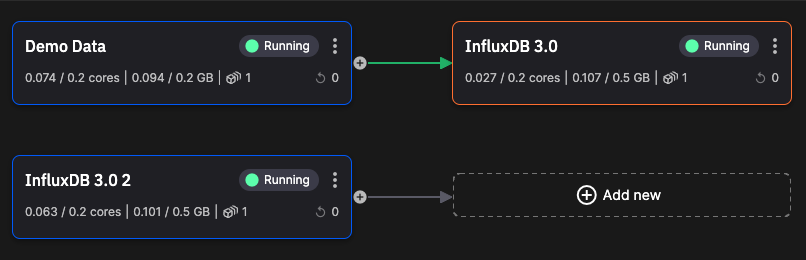
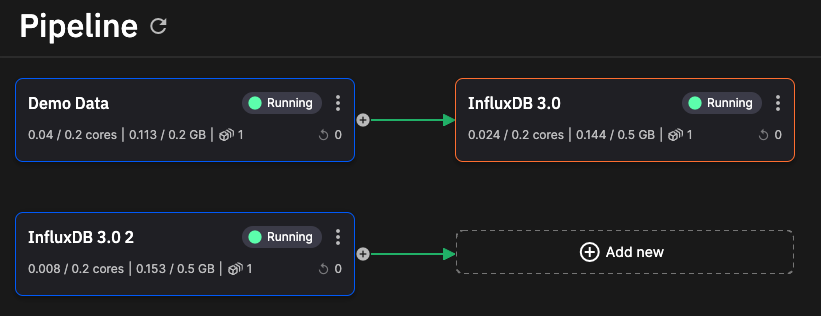
[chore] - add material

diff --git a/docs/integrations/influxdb/quickstart.md b/docs/integrations/influxdb/quickstart.md
@@ -2,11 +2,11 @@
 
 This quickstart shows you how to integrate Quix with InfluxDB using our standard [connectors](../../connectors/index.md).
 
-In the first part of this quickstart, you'll write data from a Quix topic to InfluxDB, and in the second part you'll publish data from InfluxDB into a Quix topic.
+In the first part of this quickstart, you'll publish data generated by a sample source from a Quix topic to InfluxDB, and in the second part you'll publish data from InfluxDB into a Quix topic, and then explore that data in real time.
 
 ## Prerequisites
 
-You complete this quickstart you will need:
+To complete this quickstart you will need:
 
 * A free [Quix account](https://portal.platform.quix.ai/self-sign-up){target="_blank"}.
 * An [InfluxDB account](https://www.influxdata.com/products/influxdb-cloud/serverless/){target=_blank}
@@ -25,9 +25,17 @@ In the InfluxDB token manager, generate an API token for this project. All "all 
 
 To create a sample data source so you have some data to store in InfluxDB:
 
-1. In the pipeline view of your environment, click `+ Sample data source` and then click `Deploy` and `Deploy` again to add the sample data source into your pipeline.
+1. In the pipeline view of your environment, click `+ Sample data source`. 
+
+2. Click `Deploy` and `Deploy` again to add the sample data source into your pipeline.
+
+Alternatively, click `Add new` (top right corner in pipeline view), select `Source`, and then select `Demo Data`. You can then deploy this sample.
+
+By default, the output topic from this sample is `f1-data`.
 
 ## Add your InfluxDB destination
+
+You now add an InfluxDB **destination** to enable you to publish data from a Quix topic to InfluxDB.
 
 1. Switch to the pipeline view and click `+ Add new` and select `Destination` - you are now going to add an InfluxDB destination.
 
@@ -41,15 +49,25 @@ To create a sample data source so you have some data to store in InfluxDB:
 
     !!! tip
 
-        `INFLUXDB_DATABASE` is the bucket you created previously, `f1-data` - this is also the value of `INFLUXDB_MEASUREMENT_NAME`. `INFLUXDB_ORG` can be obtained from the URL once you are logged into your Influx account. `INFLUXDB_TOKEN` is the Influx API token you created previously.
+        This table shows some example values:
 
-5. Click the `Run` button to test connection with the database. If no errors occur proceed to the next step, or otherwise check you have configured your environment variables correctly.
+        | Variable | Description |
+        |----|----|
+        | `input` | This should be set to `f1-data`, if not already set. |
+        | `INFLUXDB_HOST` | Your Influx host. Example: `https://us-east-1-1.aws.cloud2.influxdata.com/` |
+        | `INFLUXDB_TOKEN` | Your all-access token generated in Influx. Example: `z7E<snip>Og==` |
+        | `INFLUXDB_ORG` | In your Influx account you can see your available organizations. Example: `Docs` |
+        | `INFLUXDB_DATABASE` | The InfluxDB bucket, in this case `f1-data` |
+        | `INFLUXDB_TAG_COLUMNS` | Leave as default, `['tag1', 'tag2']`. |
+        | `INFLUXDB_MEASUREMENT_NAME` | The "table" name, in this case `f1-data`. |
+
+5. Click the `Run` button to test connection with the database. If no errors occur, proceed to the next step, or otherwise check you have configured your environment variables correctly.
 
 6. Click `Deploy` and leave the settings at their defaults to build and deploy your InfluxDB connector. The database will then start receiving data once the build completes.
 
 ## Check your data in InfluxDB
 
-You will now check that InfluxDB is receiving data. 
+You will now check that your InfluxDB database is receiving data. 
 
 1. In InfluxDB switch to the Explorer and in the schema browser select the `f1-data` bucket. 
 
@@ -57,11 +75,15 @@ You will now check that InfluxDB is receiving data.
 
     ![stored data](../../images/integrations/influxdb-f1-data-results.png)
 
-In the secind part of this quickstart you learn how to publish data from InfluxDB to Quix.
+You have successfully published data from Quix to InfluxDB.
+
+!!! note
+
+    In the second part of this quickstart you learn how to publish data from InfluxDB to Quix.
 
 ## Add an InfluxDB source
 
-You now add an InfluxDB source to enable you to publish data from InfluxDB to a Quix topic.
+You now add an InfluxDB **source** to enable you to publish data from InfluxDB to a Quix topic.
 
 1. In the pipeline view, in  the top right click the `Add new` button and then select `Source`.
 
@@ -69,11 +91,11 @@ You now add an InfluxDB source to enable you to publish data from InfluxDB to a 
 
 3. Click `Edit code` accepting the defaults for Application name and path.
 
-4. You now need to configure environment variables.
+4. You now need to configure environment variables, in the same way as you did in the previous section.
 
     !!! tip
     
-    For the default output topic, `influxdb` you need to make sure that topic is created. You can do this once you click edit variable. Accept the defaults in the `New topic` dialog. Also, the database is the bucket you created previously, `f1-data`. The measurement is also `f1-data`.
+        For the default output topic, `influxdb` you need to make sure that topic is created. You can do this once you click edit variable. Accept the defaults in the `New topic` dialog. Also, the database is the bucket you created previously, `f1-data`. The measurement is also `f1-data`.
 
 5. Click the `Run` button to test connection with the database. If no errors occur proceed to the next step, or otherwise check you have configured your environment variables correctly.
 
@@ -83,16 +105,28 @@ You now add an InfluxDB source to enable you to publish data from InfluxDB to a 
 
     ![Pipeline view](../../images/integrations/influxdb-pipeline.png)
 
-## Explore data
+!!! tip
 
-You now explore data puiblished from InfluxDB to the Quix topic `influxdb`.
+    The green arrows in the pipeline view indicate data is being received. If no data is being received, the arrows are gray.
 
+## Explore the data from InfluxDB in real time
 
+You can now explore data published from InfluxDB to the Quix topic `influxdb` by the connector.
 
+1. In the main left-hand menu, click on `Data explorer`.
 
+2. Click `Live data`, then select the topic, which is the output topic for the connector, `influxdb`.
 
+3. Select the `influxdb-query` stream.
 
+4. Select the parameters of interest, for example, `Brake`, `EngineRPM`, and `Gear`.
 
+5. Select the Waveform view. The selected data is displayed in real time:
 
+    ![real-time waveform display](../../images/integrations/influxdb-data-explorer.png)
 
+Data is being read from InfluxDB by the Quix connector, and then published to the Quix topic, `influxdb`. The Quix data explorer is then used to display this data in real time.
 
+## Summary
+
+TBD
